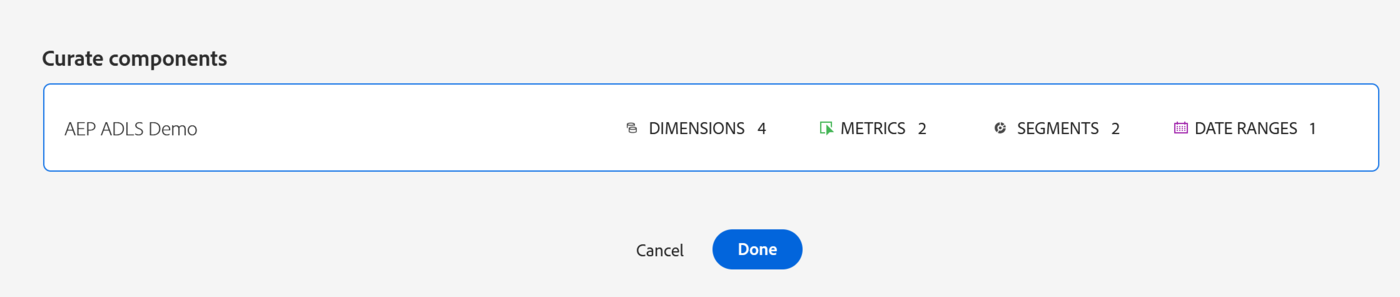
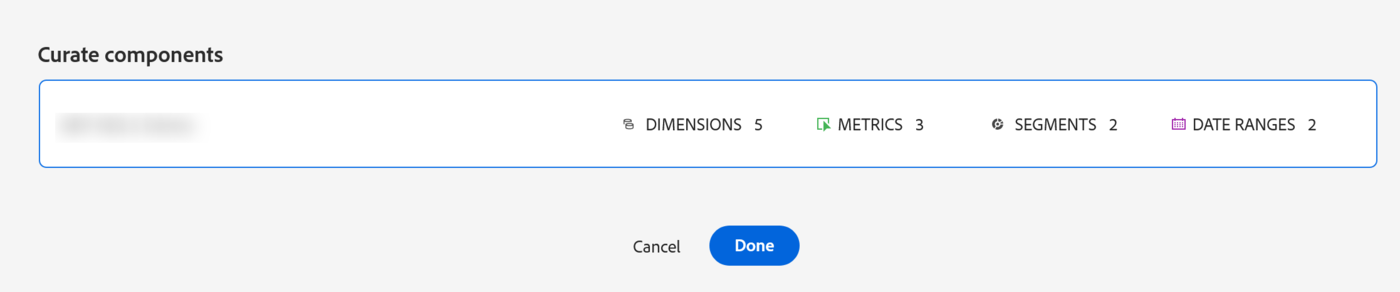
Replace the M14 s8 curation screenshot and clear all review highlighting
Amit recaptured the curation shot with the report suite name obscured,
which removes the last identifying string in the module. The component
counts changed with it, from four dimensions, two metrics, two segments
and one date range to five, three, two and two, so the caption and the
alt text were updated to match rather than left describing the old
frame. Old file deleted, original archived, replacement is 12 KB.

All review highlighting removed. Zero data-newblock and zero amber
styling anywhere in the content tree; the 41 remaining matches for those
hex values site-wide are var(--warning) inside other modules' diagrams
and pre-date this work.

Module 14 is complete: ten sections, 26,985 words, 18 diagrams, 14
screenshots at 613 KB total.

Verified on a clean build: 219 pages, every internal link resolves, no
em-dashes, every description inside 110 to 160, all 14 images load with
natural dimensions matching their declared width and height, no
placeholders and no highlighting left.

diff --git a/amitdusane-site-complete/content/adobe-analytics-learning/analyze/analysis-workspace/08-curation-and-templates.html b/amitdusane-site-complete/content/adobe-analytics-learning/analyze/analysis-workspace/08-curation-and-templates.html
@@ -101,11 +101,11 @@ weight: 8
 <div class="shot-box">
     <div class="shot-title">📷 What a curated project comes down to</div>
     <div class="shot-frame">
-        <img src="/img/aal_module14_section08_ss1.webp" width="1400" height="297" loading="lazy"
-             alt="The Curate components summary bar for a project, showing the report suite name and counts of the selected components: four dimensions, two metrics, two segments and one date range, each labelled with its colour-coded icon.">
+        <img src="/img/aal_module14_section08_ss1.webp" width="1400" height="292" loading="lazy"
+             alt="The Curate components summary bar for a project, showing counts of the selected components: five dimensions, three metrics, two segments and two date ranges, each labelled with its colour-coded icon.">
         <button type="button" class="shot-zoom-btn" aria-label="Enlarge this screenshot">&#10530;</button>
     </div>
-    <div class="shot-note">Nine components in total, in the four colour-coded types. That is the size of the room a recipient gets, instead of the several hundred the report suite actually holds.</div>
+    <div class="shot-note">Twelve components in total, across the four colour-coded types. That is the size of the room a recipient gets to work in, instead of the several hundred the report suite actually holds.</div>
 </div>
 
 <div class="shot-box">
